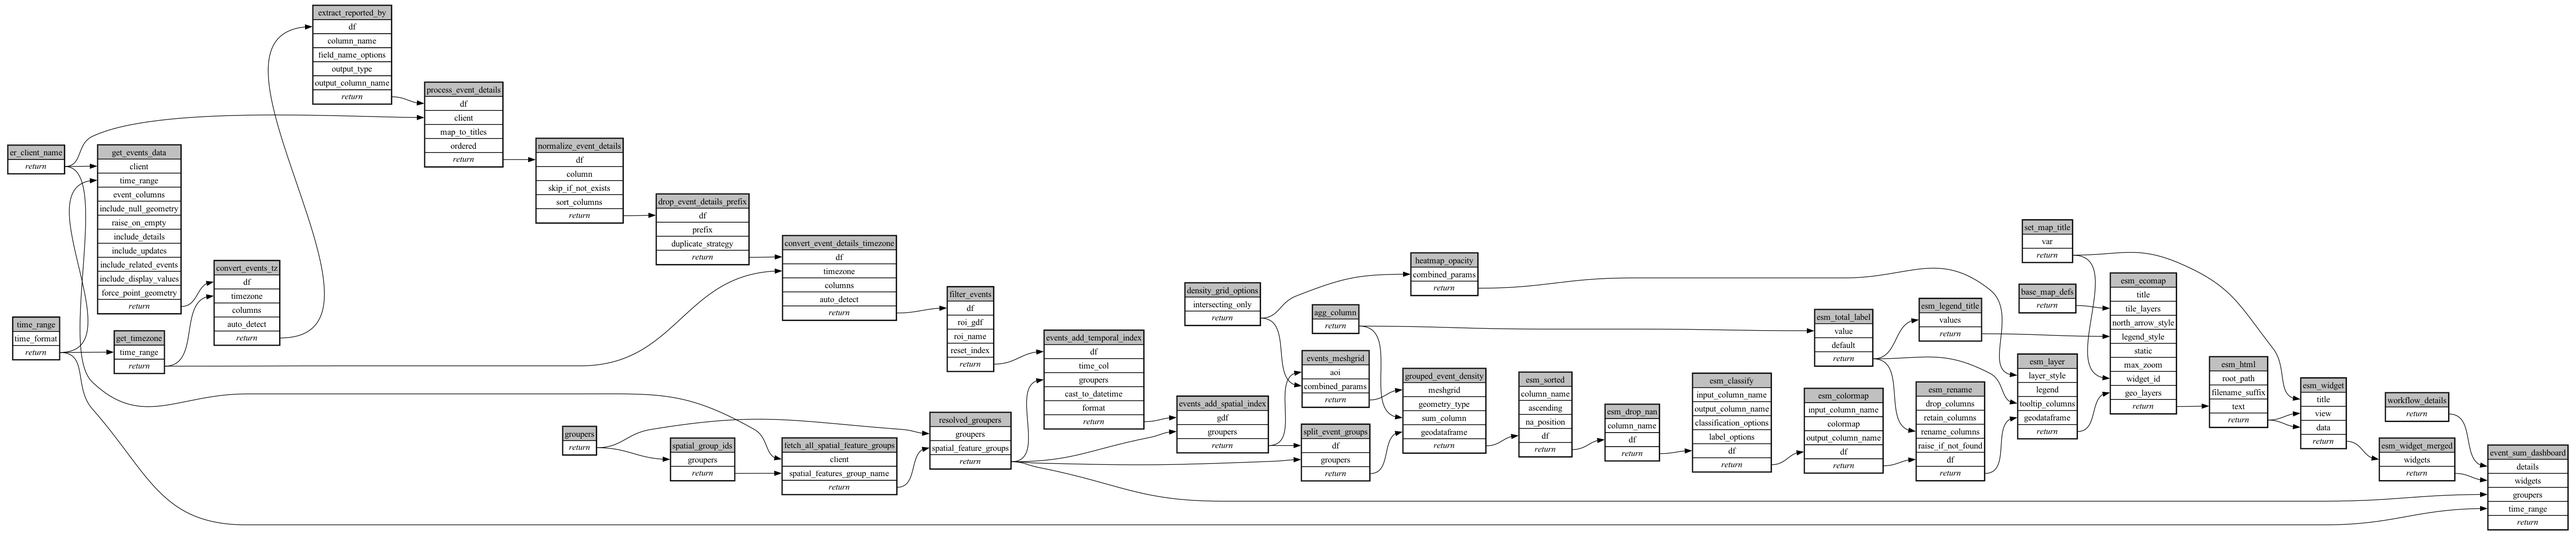
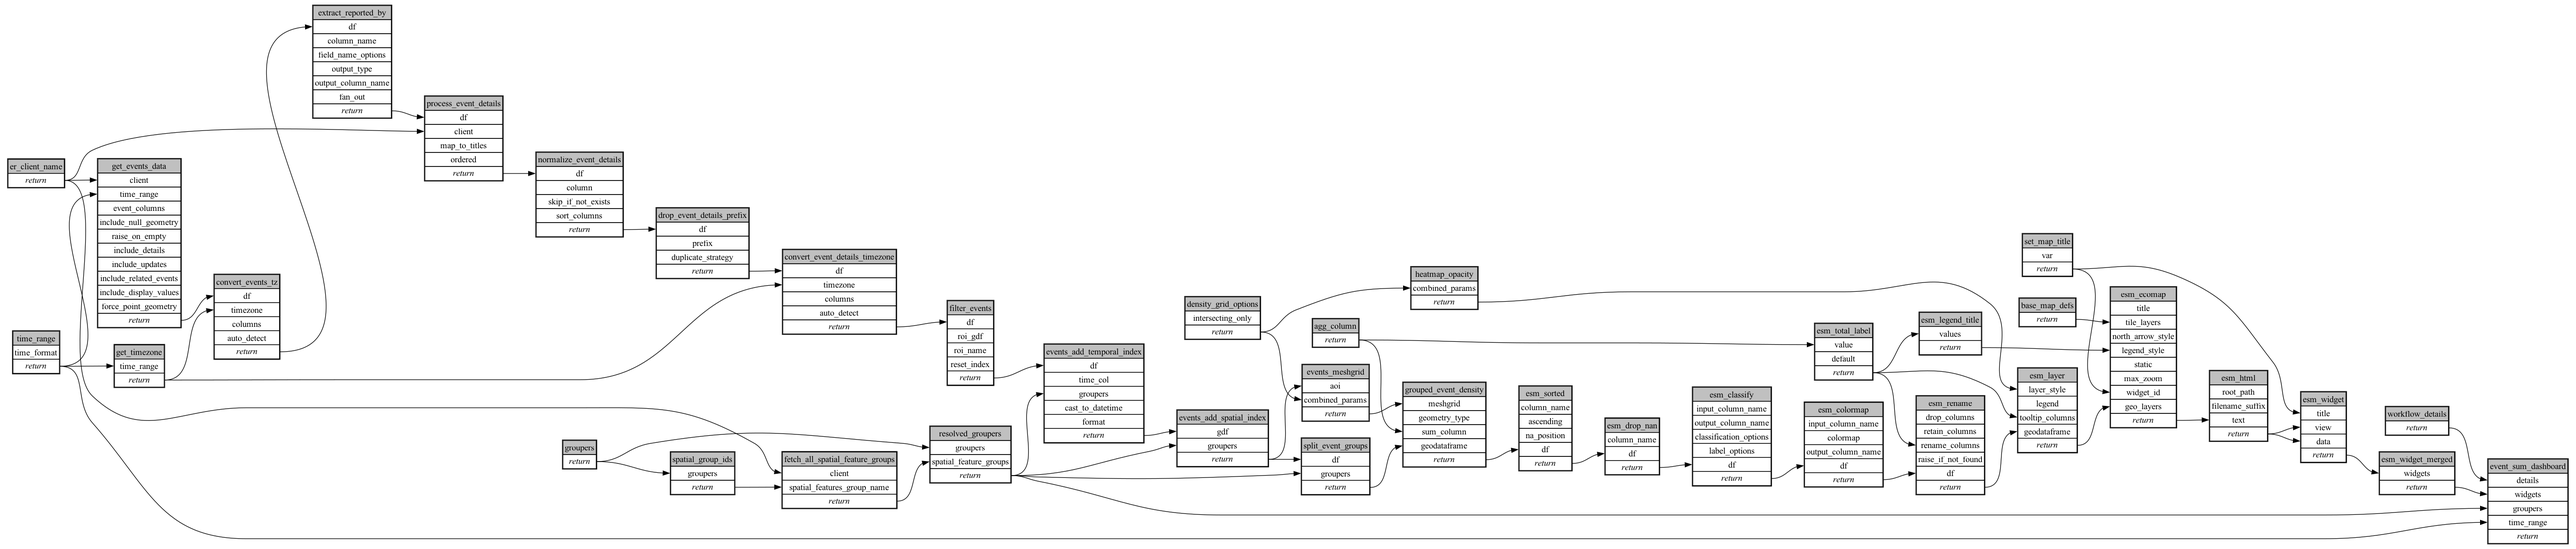
chore: pin fan_out via partial to drop the no-op checkbox from the config form

diff --git a/ecoscope-workflows-event-sum-map-workflow/ecoscope_workflows_event_sum_map_workflow/dags/run_sequential.py b/ecoscope-workflows-event-sum-map-workflow/ecoscope_workflows_event_sum_map_workflow/dags/run_sequential.py
@@ -244,6 +244,7 @@ def main(params: dict[str, Any], validate_params_schema: bool = True):
             field_name_options=["name"],
             output_type="str",
             output_column_name="reported_by_name",
+            fan_out=True,
             **(params.get("extract_reported_by") or {}),
         )
         .call()

diff --git a/ecoscope-workflows-event-sum-map-workflow/ecoscope_workflows_event_sum_map_workflow/dags/run_sequential_mock_io.py b/ecoscope-workflows-event-sum-map-workflow/ecoscope_workflows_event_sum_map_workflow/dags/run_sequential_mock_io.py
@@ -265,6 +265,7 @@ def main(params: dict[str, Any], validate_params_schema: bool = True):
             field_name_options=["name"],
             output_type="str",
             output_column_name="reported_by_name",
+            fan_out=True,
             **(params.get("extract_reported_by") or {}),
         )
         .call()

diff --git a/ecoscope-workflows-event-sum-map-workflow/README.md b/ecoscope-workflows-event-sum-map-workflow/README.md
@@ -5,8 +5,8 @@
 
 ```yaml
 # fingerprint:
-artifacts_sha256_basic: 2b6ed59fcff27eaff2aa4436b37428056c91aa34d15770d2f61c18d9750adbea
-artifacts_sha256_strict: d9196cb6545566921629705d003943db887d46a5af86b69284bd8a3d4a9f365e
+artifacts_sha256_basic: 21cc1f1ba9898b356f1fe98c47e1b2309eba88f2cc1344719010a936e8317f4c
+artifacts_sha256_strict: 8a342495aca43f58e9c2bc4af1c2262998a5424adf5b02968dbfe6336ae851cc
 installed_requirements:
 - channel: https://repo.prefix.dev/ecoscope-workflows/
   name: ecoscope-platform
@@ -14,8 +14,8 @@ installed_requirements:
 - channel: conda-forge
   name: pydeck
   version: {version: ==0.9.2}
-params_sha256: 674c6a20da1d08c2b5aad6c180f0d23505fbb39afeaba921a2a500cc1f5ea5ec
-spec_sha256: 9883ba12bb8858fd5727d39515662d80e8d07d2f6fd6c7c8125ddea3044a41b8
+params_sha256: fb8c3c6cf0e57d2e1be19ef84c69eec8e5e92245b00a9103db3140ce67c71bc9
+spec_sha256: 2241a69e4235a7a556e3313cd7410350b09ec260df67000cf706d6f918330925
 
 ```
 
